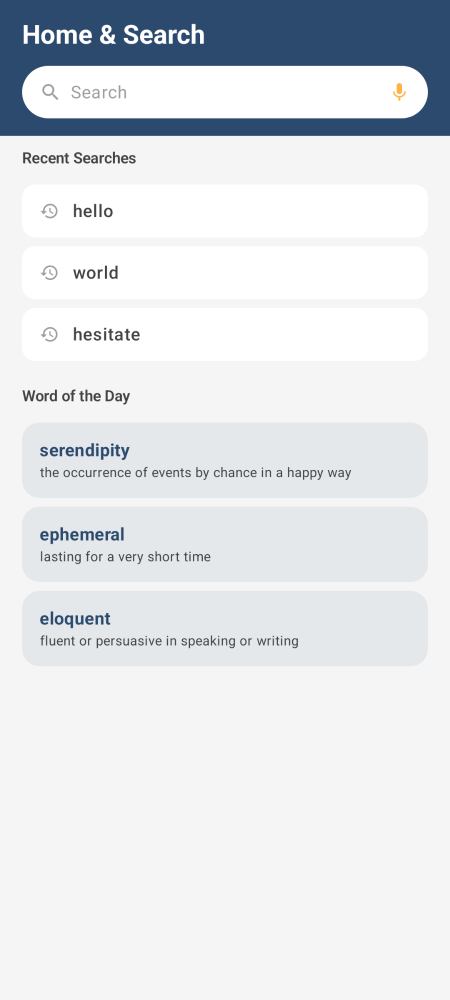
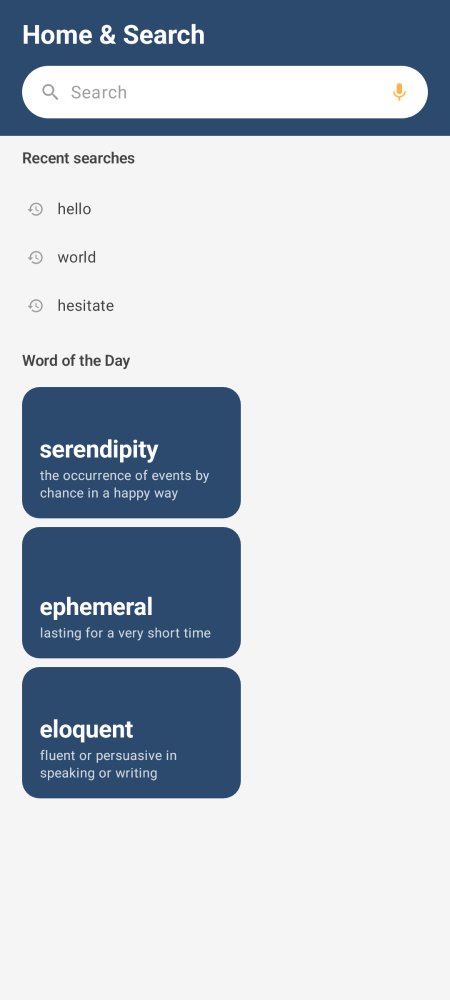
feat: update all screenshots to match current UI, fix ScreenshotTest.kt consistency, add flashcard screenshot to README

Changed region(s): [[0.0311, 0.248, 0.7778, 0.806], [0.0622, 0.155, 0.3111, 0.217]]

diff --git a/android_project/app/src/test/java/io/github/gdict/ui/screens/ScreenshotTest.kt b/android_project/app/src/test/java/io/github/gdict/ui/screens/ScreenshotTest.kt
@@ -7,6 +7,7 @@ import app.cash.paparazzi.DeviceConfig
 import app.cash.paparazzi.Paparazzi
 import androidx.compose.foundation.background
 import androidx.compose.foundation.border
+import androidx.compose.foundation.clickable
 import androidx.compose.foundation.layout.*
 import androidx.compose.foundation.lazy.LazyColumn
 import androidx.compose.foundation.lazy.items
@@ -15,6 +16,7 @@ import androidx.compose.foundation.shape.CircleShape
 import androidx.compose.foundation.shape.RoundedCornerShape
 import androidx.compose.foundation.verticalScroll
 import androidx.compose.material.icons.Icons
+import androidx.compose.material.icons.automirrored.filled.*
 import androidx.compose.material.icons.filled.*
 import androidx.compose.material.icons.outlined.*
 import androidx.compose.material3.*
@@ -188,28 +190,24 @@ private fun SearchScreenSnapshot() {
         ) {
             item {
                 Text(
-                    "Recent Searches",
+                    "Recent searches",
                     style = MaterialTheme.typography.titleSmall,
                     fontWeight = FontWeight.SemiBold,
                     color = textColor,
-                    modifier = Modifier.padding(bottom = 8.dp)
+                    modifier = Modifier.padding(bottom = 12.dp)
                 )
             }
             items(sampleHistory.take(3)) { word ->
-                Card(
-                    shape = RoundedCornerShape(12.dp),
-                    colors = CardDefaults.cardColors(containerColor = cardColor),
-                    elevation = CardDefaults.cardElevation(defaultElevation = 0.dp),
-                    modifier = Modifier.fillMaxWidth()
+                Row(
+                    modifier = Modifier
+                        .fillMaxWidth()
+                        .clip(RoundedCornerShape(12.dp))
+                        .padding(vertical = 10.dp, horizontal = 4.dp),
+                    verticalAlignment = Alignment.CenterVertically
                 ) {
-                    Row(
-                        modifier = Modifier.padding(horizontal = 16.dp, vertical = 12.dp),
-                        verticalAlignment = Alignment.CenterVertically
-                    ) {
-                        Icon(Icons.Outlined.History, null, tint = GdictColors.MediumGray, modifier = Modifier.size(18.dp))
-                        Spacer(modifier = Modifier.width(12.dp))
-                        Text(word, color = textColor, fontWeight = FontWeight.Medium)
-                    }
+                    Icon(Icons.Outlined.History, null, tint = GdictColors.MediumGray, modifier = Modifier.size(16.dp))
+                    Spacer(modifier = Modifier.width(12.dp))
+                    Text(word, color = textColor, style = MaterialTheme.typography.bodyMedium)
                 }
             }
             item { Spacer(modifier = Modifier.height(8.dp)) }
@@ -225,14 +223,21 @@ private fun SearchScreenSnapshot() {
             items(wordOfTheDay) { (word, def) ->
                 Card(
                     shape = RoundedCornerShape(16.dp),
-                    colors = CardDefaults.cardColors(containerColor = GdictColors.NavyBlue.copy(alpha = 0.08f)),
+                    colors = CardDefaults.cardColors(containerColor = GdictColors.NavyBlue),
                     elevation = CardDefaults.cardElevation(defaultElevation = 0.dp),
-                    modifier = Modifier.fillMaxWidth()
+                    modifier = Modifier
+                        .width(200.dp)
+                        .height(120.dp)
                 ) {
-                    Column(modifier = Modifier.padding(16.dp)) {
-                        Text(word, fontWeight = FontWeight.Bold, color = GdictColors.NavyBlue, style = MaterialTheme.typography.titleMedium)
+                    Column(
+                        modifier = Modifier
+                            .fillMaxSize()
+                            .padding(16.dp),
+                        verticalArrangement = Arrangement.Bottom
+                    ) {
+                        Text(word, fontWeight = FontWeight.Bold, color = Color.White, style = MaterialTheme.typography.titleLarge)
                         Spacer(modifier = Modifier.height(4.dp))
-                        Text(def, color = textColor, style = MaterialTheme.typography.bodySmall, maxLines = 2)
+                        Text(def, color = Color.White.copy(alpha = 0.8f), style = MaterialTheme.typography.bodySmall)
                     }
                 }
             }
@@ -295,6 +300,25 @@ private fun WordDetailScreenSnapshot() {
                     }
                 }
 
+                Spacer(modifier = Modifier.height(12.dp))
+
+                Row(
+                    modifier = Modifier.fillMaxWidth(),
+                    horizontalArrangement = Arrangement.spacedBy(3.dp),
+                    verticalAlignment = Alignment.CenterVertically
+                ) {
+                    val heights = listOf(8, 16, 24, 32, 20, 12, 28, 36, 16, 8, 20, 32, 24, 12, 28, 16, 8, 20, 32, 24, 12, 28, 16, 8)
+                    heights.forEach { h ->
+                        Box(
+                            modifier = Modifier
+                                .width(3.dp)
+                                .height(h.dp)
+                                .clip(RoundedCornerShape(1.5.dp))
+                                .background(if (h > 20) GdictColors.TealAccent else Color.White.copy(alpha = 0.4f))
+                        )
+                    }
+                }
+
                 Spacer(modifier = Modifier.height(16.dp))
 
                 Row(horizontalArrangement = Arrangement.spacedBy(8.dp)) {
@@ -321,7 +345,7 @@ private fun WordDetailScreenSnapshot() {
                 modifier = Modifier.fillMaxWidth(),
                 horizontalArrangement = Arrangement.spacedBy(8.dp)
             ) {
-                listOf("Bookmark" to Icons.Filled.Bookmark, "Learning" to Icons.Outlined.School).forEach { (label, icon) ->
+                listOf("Bookmark" to Icons.Filled.Bookmark, "Share" to Icons.Filled.Share).forEach { (label, icon) ->
                     Surface(
                         shape = RoundedCornerShape(16.dp),
                         color = GdictColors.NavyBlue.copy(alpha = 0.06f),
@@ -425,6 +449,37 @@ private fun BookmarksScreenSnapshot() {
                             Text(word, fontWeight = FontWeight.SemiBold, color = textColor, style = MaterialTheme.typography.titleSmall)
                             Text(dict, color = GdictColors.MediumGray, style = MaterialTheme.typography.bodySmall)
                         }
+                        Icon(Icons.Default.Close, null, tint = GdictColors.MediumGray, modifier = Modifier.size(16.dp))
+                    }
+                }
+            }
+            item {
+                Spacer(modifier = Modifier.height(16.dp))
+                Card(
+                    shape = RoundedCornerShape(16.dp),
+                    colors = CardDefaults.cardColors(containerColor = GdictColors.NavyBlue),
+                    elevation = CardDefaults.cardElevation(defaultElevation = 0.dp),
+                    modifier = Modifier.fillMaxWidth()
+                ) {
+                    Row(
+                        modifier = Modifier.padding(16.dp),
+                        verticalAlignment = Alignment.CenterVertically
+                    ) {
+                        Box(
+                            modifier = Modifier
+                                .size(48.dp)
+                                .clip(RoundedCornerShape(12.dp))
+                                .background(Color.White.copy(alpha = 0.2f)),
+                            contentAlignment = Alignment.Center
+                        ) {
+                            Icon(Icons.Filled.Bookmark, null, tint = Color.White, modifier = Modifier.size(24.dp))
+                        }
+                        Spacer(modifier = Modifier.width(12.dp))
+                        Column(modifier = Modifier.weight(1f)) {
+                            Text("Flashcard", fontWeight = FontWeight.SemiBold, color = Color.White, style = MaterialTheme.typography.titleSmall)
+                            Text("To practice and learn your word lists.", color = Color.White.copy(alpha = 0.8f), style = MaterialTheme.typography.bodySmall)
+                        }
+                        Icon(Icons.AutoMirrored.Filled.KeyboardArrowRight, null, tint = Color.White, modifier = Modifier.size(20.dp))
                     }
                 }
             }
@@ -715,16 +770,31 @@ private fun FlashcardBackSnapshot() {
             }
         }
 
-        Row(
-            modifier = Modifier
-                .fillMaxWidth()
-                .padding(horizontal = 16.dp, vertical = 12.dp),
-            horizontalArrangement = Arrangement.spacedBy(8.dp)
+        Surface(
+            modifier = Modifier.fillMaxWidth(),
+            shape = RoundedCornerShape(topStart = 20.dp, topEnd = 20.dp),
+            color = GdictColors.NavyBlue.copy(alpha = 0.03f),
+            shadowElevation = 8.dp
         ) {
-            RatingButtonSnapshot("Again", "1d", GdictColors.CoralAccent)
-            RatingButtonSnapshot("Hard", "1d", GdictColors.AmberAccent)
-            RatingButtonSnapshot("Good", "1d", GdictColors.TealAccent)
-            RatingButtonSnapshot("Easy", "1d", GdictColors.MintGreen)
+            Column {
+                Box(
+                    modifier = Modifier
+                        .fillMaxWidth()
+                        .height(1.dp)
+                        .background(GdictColors.MediumGray.copy(alpha = 0.15f))
+                )
+                Row(
+                    modifier = Modifier
+                        .fillMaxWidth()
+                        .padding(horizontal = 12.dp, vertical = 12.dp),
+                    horizontalArrangement = Arrangement.spacedBy(8.dp)
+                ) {
+                    RatingButtonSnapshot("Again", "1d", GdictColors.CoralAccent)
+                    RatingButtonSnapshot("Hard", "1d", GdictColors.AmberAccent)
+                    RatingButtonSnapshot("Good", "1d", GdictColors.TealAccent)
+                    RatingButtonSnapshot("Easy", "1d", GdictColors.MintGreen)
+                }
+            }
         }
     }
 }
@@ -737,12 +807,12 @@ private fun RowScope.RatingButtonSnapshot(label: String, interval: String, color
             .weight(1f)
             .clip(RoundedCornerShape(12.dp))
             .background(color.copy(alpha = 0.35f))
-            .padding(vertical = 10.dp)
+            .padding(vertical = 10.dp, horizontal = 4.dp)
     ) {
         Text(
             label,
             style = MaterialTheme.typography.labelLarge,
-            fontWeight = FontWeight.SemiBold,
+            fontWeight = FontWeight.Bold,
             color = color
         )
         Spacer(modifier = Modifier.height(2.dp))
@@ -809,23 +879,29 @@ private fun DictionariesScreenSnapshot() {
                     modifier = Modifier
                         .fillMaxWidth()
                         .padding(vertical = 5.dp),
-                    shape = RoundedCornerShape(16.dp),
+                    shape = RoundedCornerShape(20.dp),
                     colors = CardDefaults.cardColors(containerColor = Color.White),
                     elevation = CardDefaults.cardElevation(defaultElevation = 0.dp)
                 ) {
                     Row(
                         modifier = Modifier
                             .fillMaxWidth()
-                            .padding(horizontal = 16.dp, vertical = 14.dp),
+                            .padding(horizontal = 16.dp, vertical = 12.dp),
                         verticalAlignment = Alignment.CenterVertically,
                         horizontalArrangement = Arrangement.SpaceBetween
                     ) {
-                        Row(verticalAlignment = Alignment.CenterVertically) {
-                            Icon(Icons.Filled.InsertDriveFile, null, tint = GdictColors.NavyBlue, modifier = Modifier.size(20.dp))
+                        Row(verticalAlignment = Alignment.CenterVertically, modifier = Modifier.weight(1f)) {
+                            Surface(
+                                shape = RoundedCornerShape(12.dp),
+                                color = GdictColors.NavyBlue.copy(alpha = 0.1f)
+                            ) {
+                                Icon(Icons.Filled.Book, null, tint = GdictColors.NavyBlue, modifier = Modifier.padding(8.dp).size(18.dp))
+                            }
                             Spacer(modifier = Modifier.width(12.dp))
-                            Column {
+                            Column(modifier = Modifier.weight(1f)) {
                                 Text(name, fontWeight = FontWeight.SemiBold, color = GdictColors.DarkGray)
-                                Text(count, color = GdictColors.MediumGray, style = MaterialTheme.typography.bodySmall)
+                                Spacer(modifier = Modifier.height(2.dp))
+                                Text("/storage/emulated/0/Download/${name.replace(" ", "")}.mdx", color = GdictColors.MediumGray, style = MaterialTheme.typography.labelSmall, maxLines = 1)
                             }
                         }
                         Switch(checked = true, onCheckedChange = {})
@@ -887,8 +963,16 @@ private fun SettingsScreenSnapshot() {
 
             Spacer(modifier = Modifier.height(12.dp))
 
+            SettingsSectionCard("Features", cardColor, textColor) {
+                SettingsRowSwitch(Icons.Outlined.QrCodeScanner, "Scan Popup", "Enable scan popup feature", checked = false, textColor)
+            }
+
+            Spacer(modifier = Modifier.height(12.dp))
+
             SettingsSectionCard("About", cardColor, textColor) {
-                SettingsRow(Icons.Outlined.Info, "Version Info", "Gdict v1.1.0", textColor)
+                SettingsRow(Icons.Outlined.Info, "Version Info", "Gdict v1.2.0", textColor)
+                Spacer(modifier = Modifier.height(4.dp))
+                SettingsRow(Icons.Filled.Person, "Project Repository", "github.com/iuroc/gdict", textColor)
                 Spacer(modifier = Modifier.height(4.dp))
                 SettingsRow(Icons.Outlined.DeleteOutline, "Clear Data", "Clear all history and bookmarks", textColor)
             }
@@ -929,7 +1013,7 @@ private fun SettingsRow(icon: androidx.compose.ui.graphics.vector.ImageVector, t
                 Text(desc, color = GdictColors.MediumGray, style = MaterialTheme.typography.bodySmall)
             }
         }
-        Icon(Icons.Outlined.ChevronRight, null, tint = GdictColors.MediumGray, modifier = Modifier.size(20.dp))
+        Icon(Icons.AutoMirrored.Filled.KeyboardArrowRight, null, tint = GdictColors.MediumGray, modifier = Modifier.size(20.dp))
     }
 }
 

diff --git a/README.md b/README.md
@@ -25,28 +25,37 @@ A modern Android dictionary app following Material Design 3, supporting MDX/MDD 
     <tr>
       <td align="center"><b>Search & Home</b></td>
       <td align="center"><b>Word Detail</b></td>
+      <td align="center"><b>Flashcard Start</b></td>
       <td align="center"><b>Flashcard Front</b></td>
-      <td align="center"><b>Flashcard Back</b></td>
     </tr>
     <tr>
       <td><img src="screenshots/search.png" width="200" alt="Search"></td>
       <td><img src="screenshots/detail.png" width="200" alt="Detail"></td>
+      <td><img src="screenshots/flashcard.png" width="200" alt="Flashcard"></td>
       <td><img src="screenshots/flashcard_front.png" width="200" alt="Flashcard Front"></td>
-      <td><img src="screenshots/flashcard_back.png" width="200" alt="Flashcard Back"></td>
     </tr>
   </table>
 
   <table>
     <tr>
+      <td align="center"><b>Flashcard Back</b></td>
       <td align="center"><b>Favorites</b></td>
       <td align="center"><b>Dictionaries</b></td>
       <td align="center"><b>Settings</b></td>
-      <td align="center"><b>Dark Mode</b></td>
     </tr>
     <tr>
+      <td><img src="screenshots/flashcard_back.png" width="200" alt="Flashcard Back"></td>
       <td><img src="screenshots/bookmarks.png" width="200" alt="Favorites"></td>
       <td><img src="screenshots/dictionaries.png" width="200" alt="Dictionaries"></td>
       <td><img src="screenshots/settings.png" width="200" alt="Settings"></td>
+    </tr>
+  </table>
+
+  <table>
+    <tr>
+      <td align="center"><b>Dark Mode</b></td>
+    </tr>
+    <tr>
       <td><img src="screenshots/dark_mode.png" width="200" alt="Dark Mode"></td>
     </tr>
   </table>

diff --git a/README.zh-CN.md b/README.zh-CN.md
@@ -59,28 +59,37 @@
     <tr>
       <td align="center"><b>搜索首页</b></td>
       <td align="center"><b>单词详情</b></td>
+      <td align="center"><b>闪卡开始页</b></td>
       <td align="center"><b>闪卡正面</b></td>
-      <td align="center"><b>闪卡反面</b></td>
     </tr>
     <tr>
       <td><img src="screenshots/search.png" width="200" alt="搜索页"></td>
       <td><img src="screenshots/detail.png" width="200" alt="详情页"></td>
+      <td><img src="screenshots/flashcard.png" width="200" alt="闪卡"></td>
       <td><img src="screenshots/flashcard_front.png" width="200" alt="闪卡正面"></td>
-      <td><img src="screenshots/flashcard_back.png" width="200" alt="闪卡反面"></td>
     </tr>
   </table>
 
   <table>
     <tr>
+      <td align="center"><b>闪卡反面</b></td>
       <td align="center"><b>生词本</b></td>
       <td align="center"><b>词典管理</b></td>
       <td align="center"><b>设置页</b></td>
-      <td align="center"><b>深色模式</b></td>
     </tr>
     <tr>
+      <td><img src="screenshots/flashcard_back.png" width="200" alt="闪卡反面"></td>
       <td><img src="screenshots/bookmarks.png" width="200" alt="生词本"></td>
       <td><img src="screenshots/dictionaries.png" width="200" alt="词典管理"></td>
       <td><img src="screenshots/settings.png" width="200" alt="设置"></td>
+    </tr>
+  </table>
+
+  <table>
+    <tr>
+      <td align="center"><b>深色模式</b></td>
+    </tr>
+    <tr>
       <td><img src="screenshots/dark_mode.png" width="200" alt="深色模式"></td>
     </tr>
   </table>
